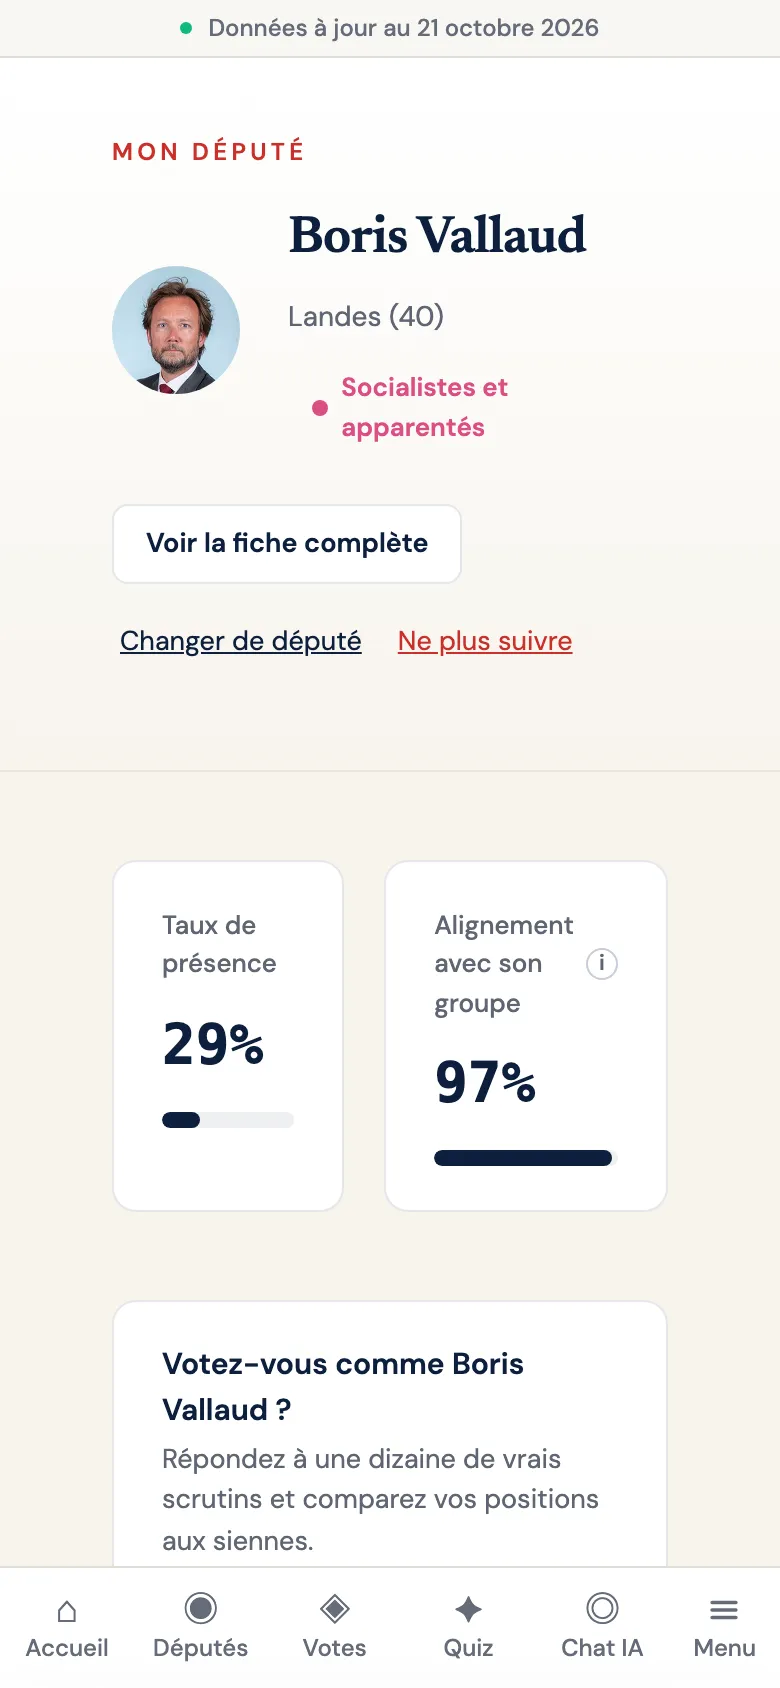
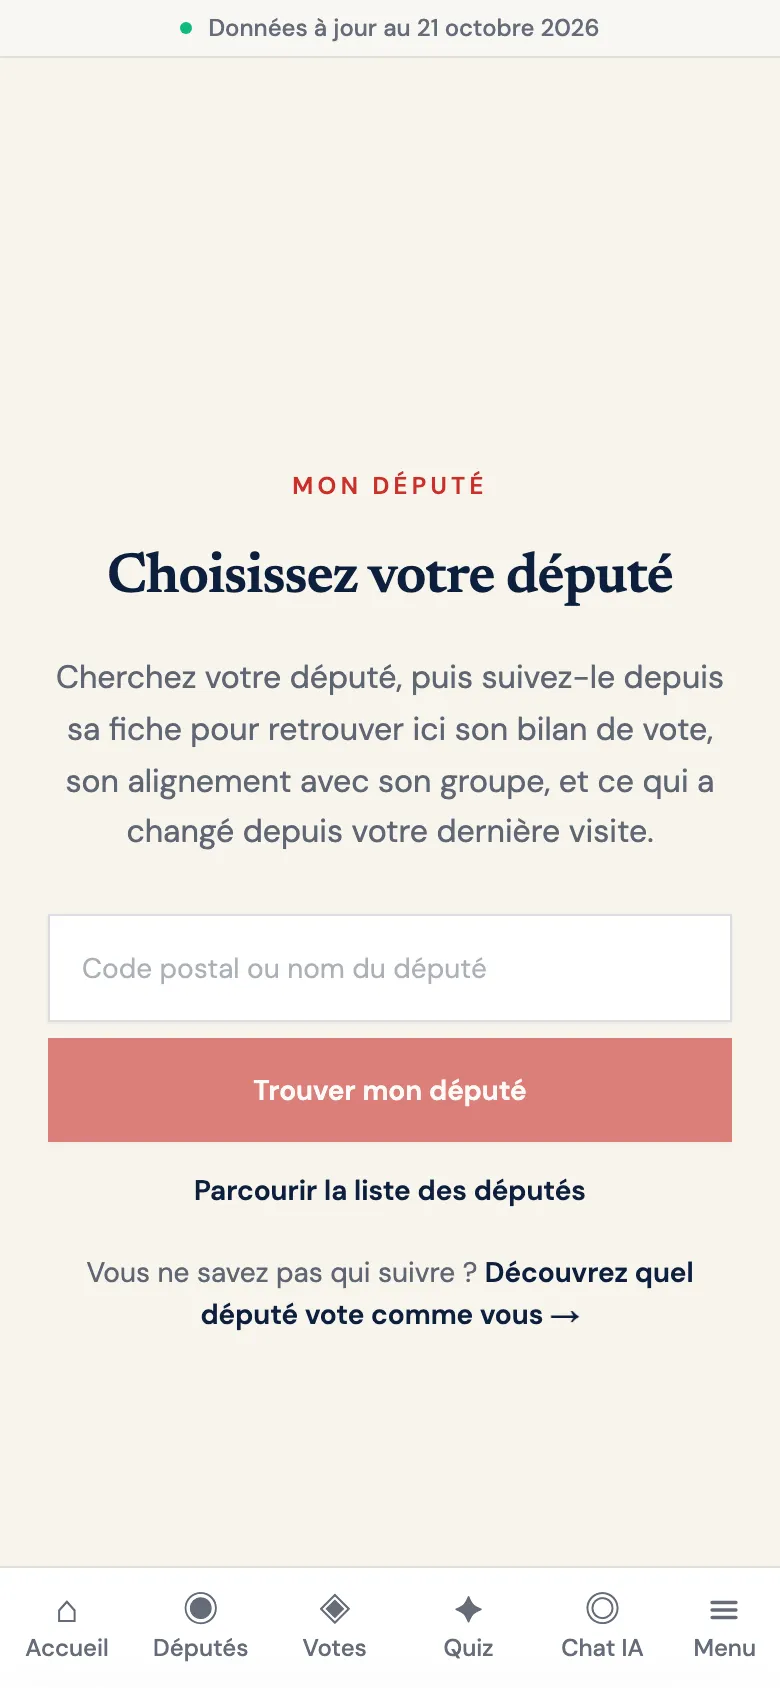
fix: neutral install screenshots, search-first copy and an empty-state test (#594)
The install sheet showed a single named deputy and one presence figure out
of context; it now shows the search screen and the full deputies list. The
Mon député lead text now matches the search box under it, and a test pins
that empty state, the installed app's first screen.

diff --git a/frontend/__tests__/components/MonDeputeClient.test.tsx b/frontend/__tests__/components/MonDeputeClient.test.tsx
@@ -1,0 +1,35 @@
+import { render, screen } from '@testing-library/react'
+
+import { MonDeputeClient } from '@/app/mon-depute/MonDeputeClient'
+
+const push = jest.fn()
+jest.mock('next/navigation', () => ({
+  useRouter: () => ({ push }),
+}))
+
+jest.mock('@/lib/api', () => ({
+  api: { deputies: { get: jest.fn(), scorecard: jest.fn(), alignment: jest.fn(), votes: jest.fn() } },
+}))
+
+beforeEach(() => {
+  window.localStorage.clear()
+})
+
+// /mon-depute is the installed web app's start_url (#594), so with no followed
+// deputy it is the first screen a new user sees: it must offer the search itself.
+describe('MonDeputeClient with no followed deputy', () => {
+  it('shows the deputy search and a link to the directory', async () => {
+    render(<MonDeputeClient />)
+
+    expect(await screen.findByRole('heading', { level: 1, name: 'Choisissez votre député' })).toBeInTheDocument()
+    expect(screen.getByLabelText('Rechercher un député ou un département')).toHaveAttribute(
+      'id',
+      'mon-depute-search',
+    )
+    expect(screen.getByRole('button', { name: 'Trouver mon député' })).toBeInTheDocument()
+    expect(screen.getByRole('link', { name: 'Parcourir la liste des députés' })).toHaveAttribute(
+      'href',
+      '/deputes',
+    )
+  })
+})

diff --git a/frontend/src/app/mon-depute/MonDeputeClient.tsx b/frontend/src/app/mon-depute/MonDeputeClient.tsx
@@ -109,8 +109,8 @@ export function MonDeputeClient() {
             Choisissez votre député
           </h1>
           <p style={{ margin: '16px 0 28px', fontSize: 16, lineHeight: 1.6, color: 'var(--dp-text-secondary)' }}>
-            Suivez un député depuis sa fiche profil pour retrouver ici son bilan de vote,
-            son alignement avec son groupe, et ce qui a changé depuis votre dernière visite.
+            Cherchez votre député, puis suivez-le depuis sa fiche pour retrouver ici son bilan
+            de vote, son alignement avec son groupe, et ce qui a changé depuis votre dernière visite.
           </p>
           {/* The installed web app opens here (manifest start_url, #594), so a
               first visit gets the search itself rather than a link to it. */}
